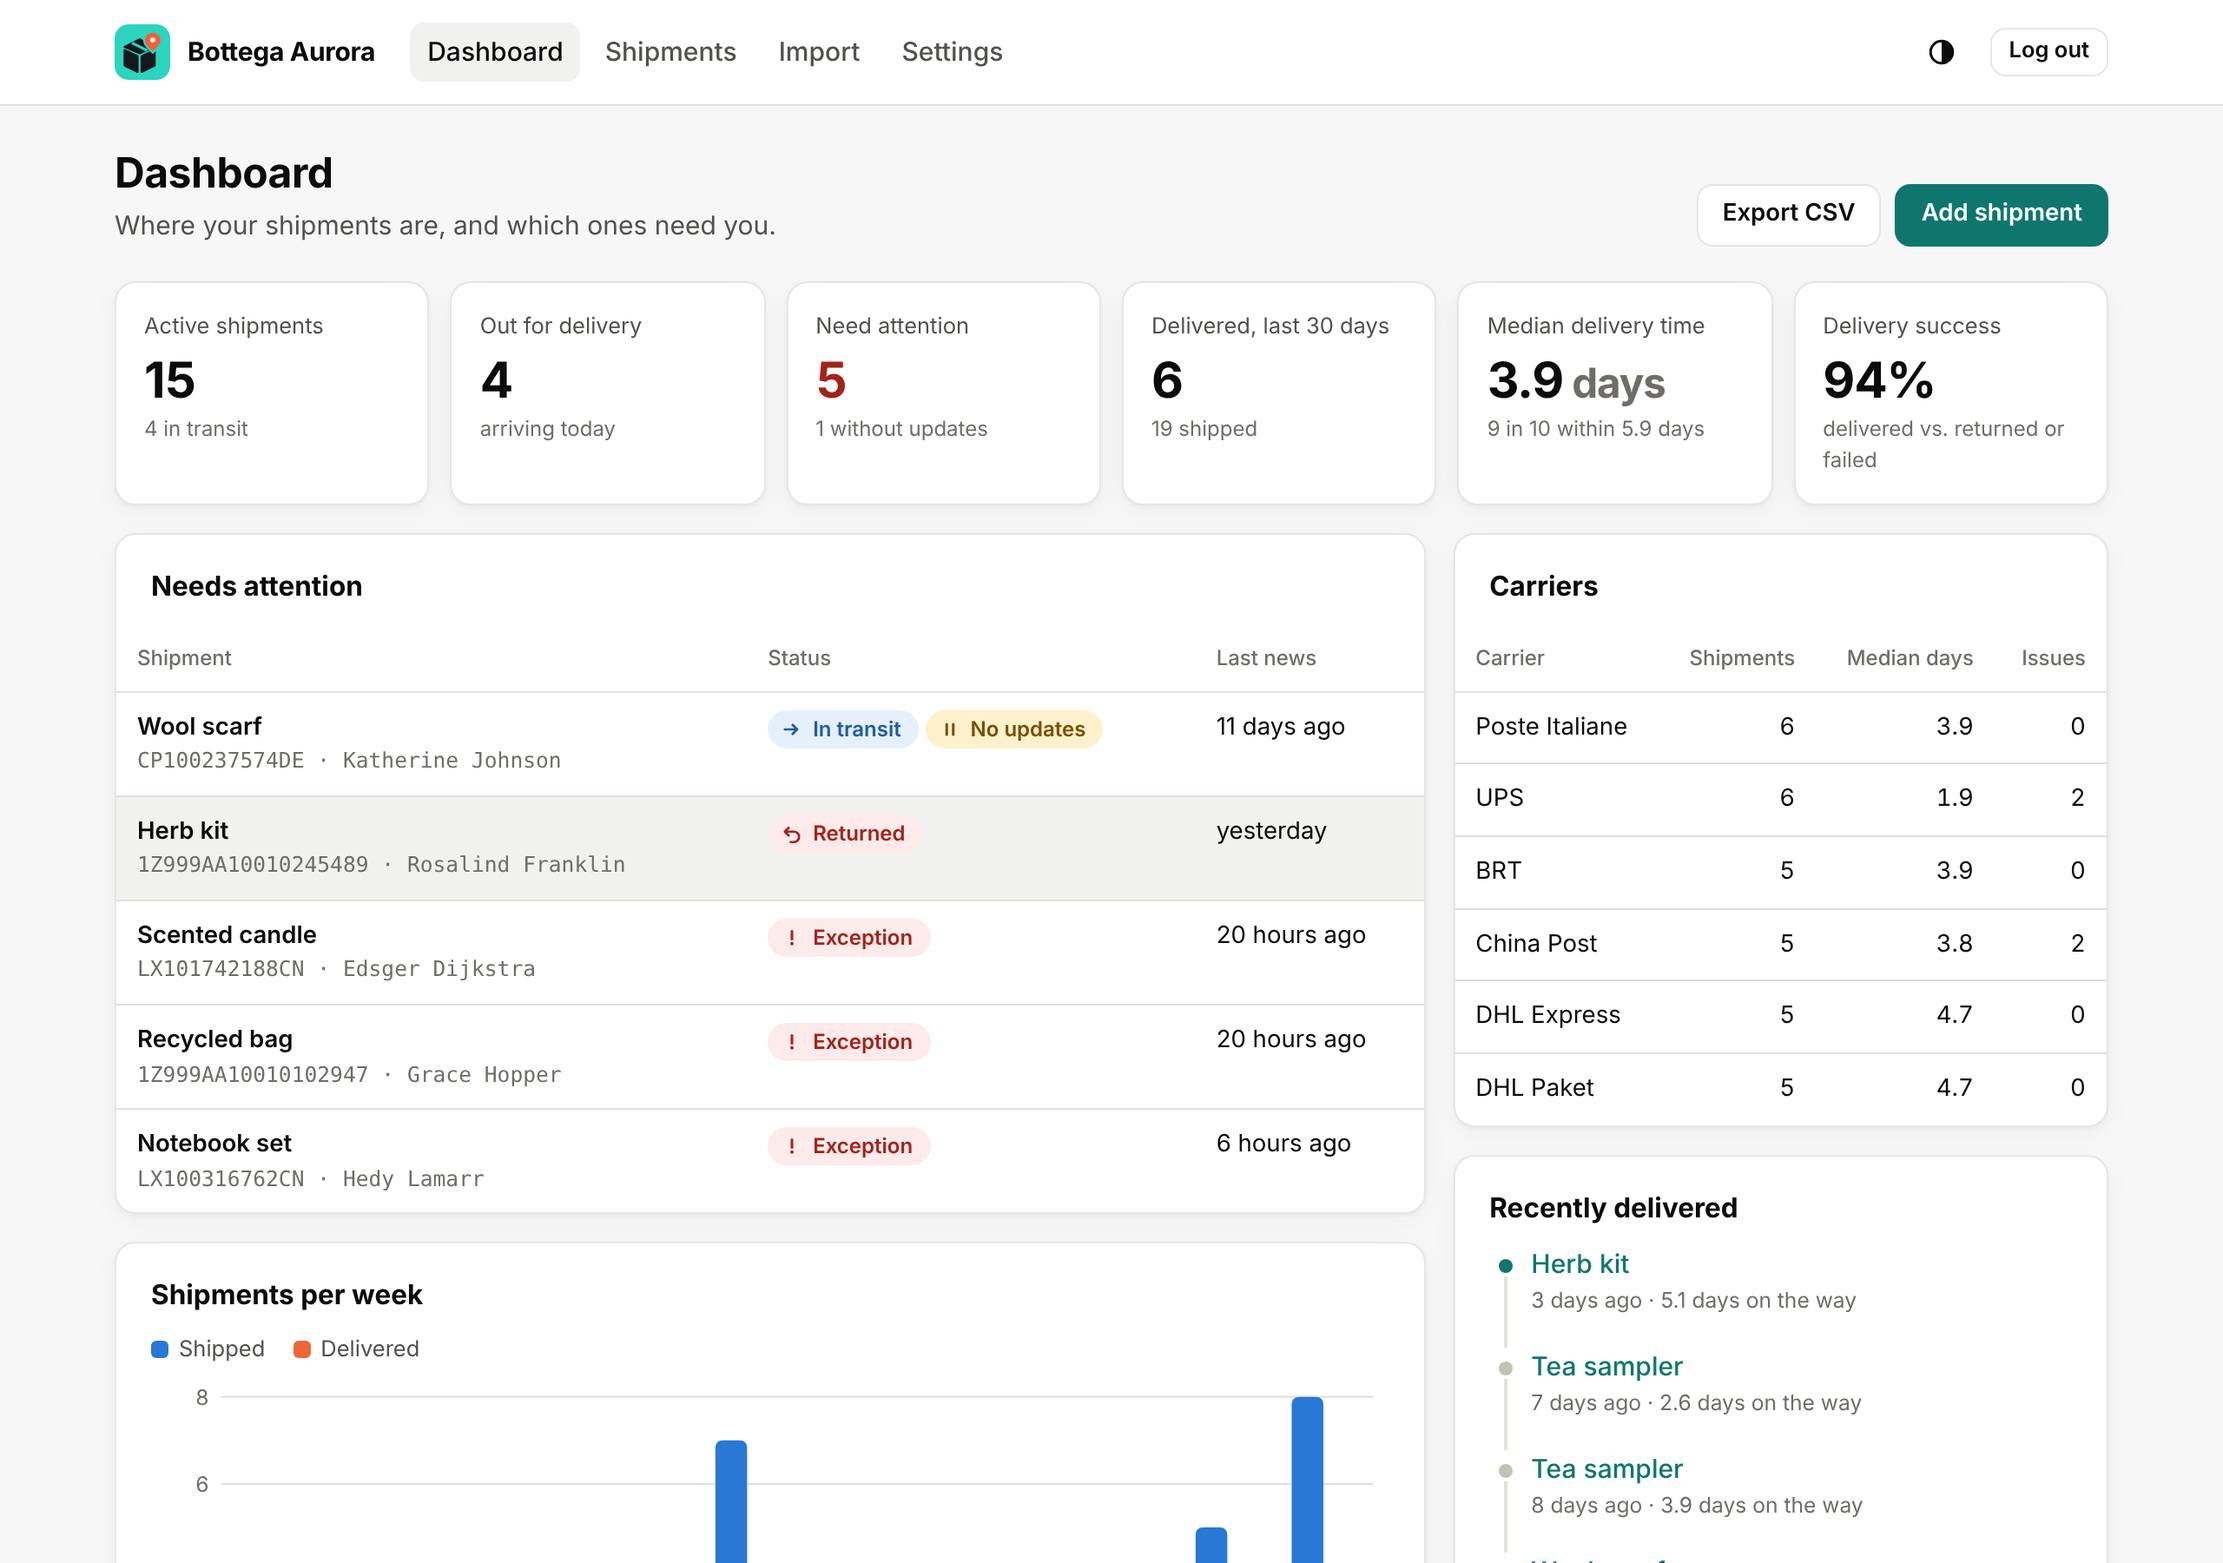
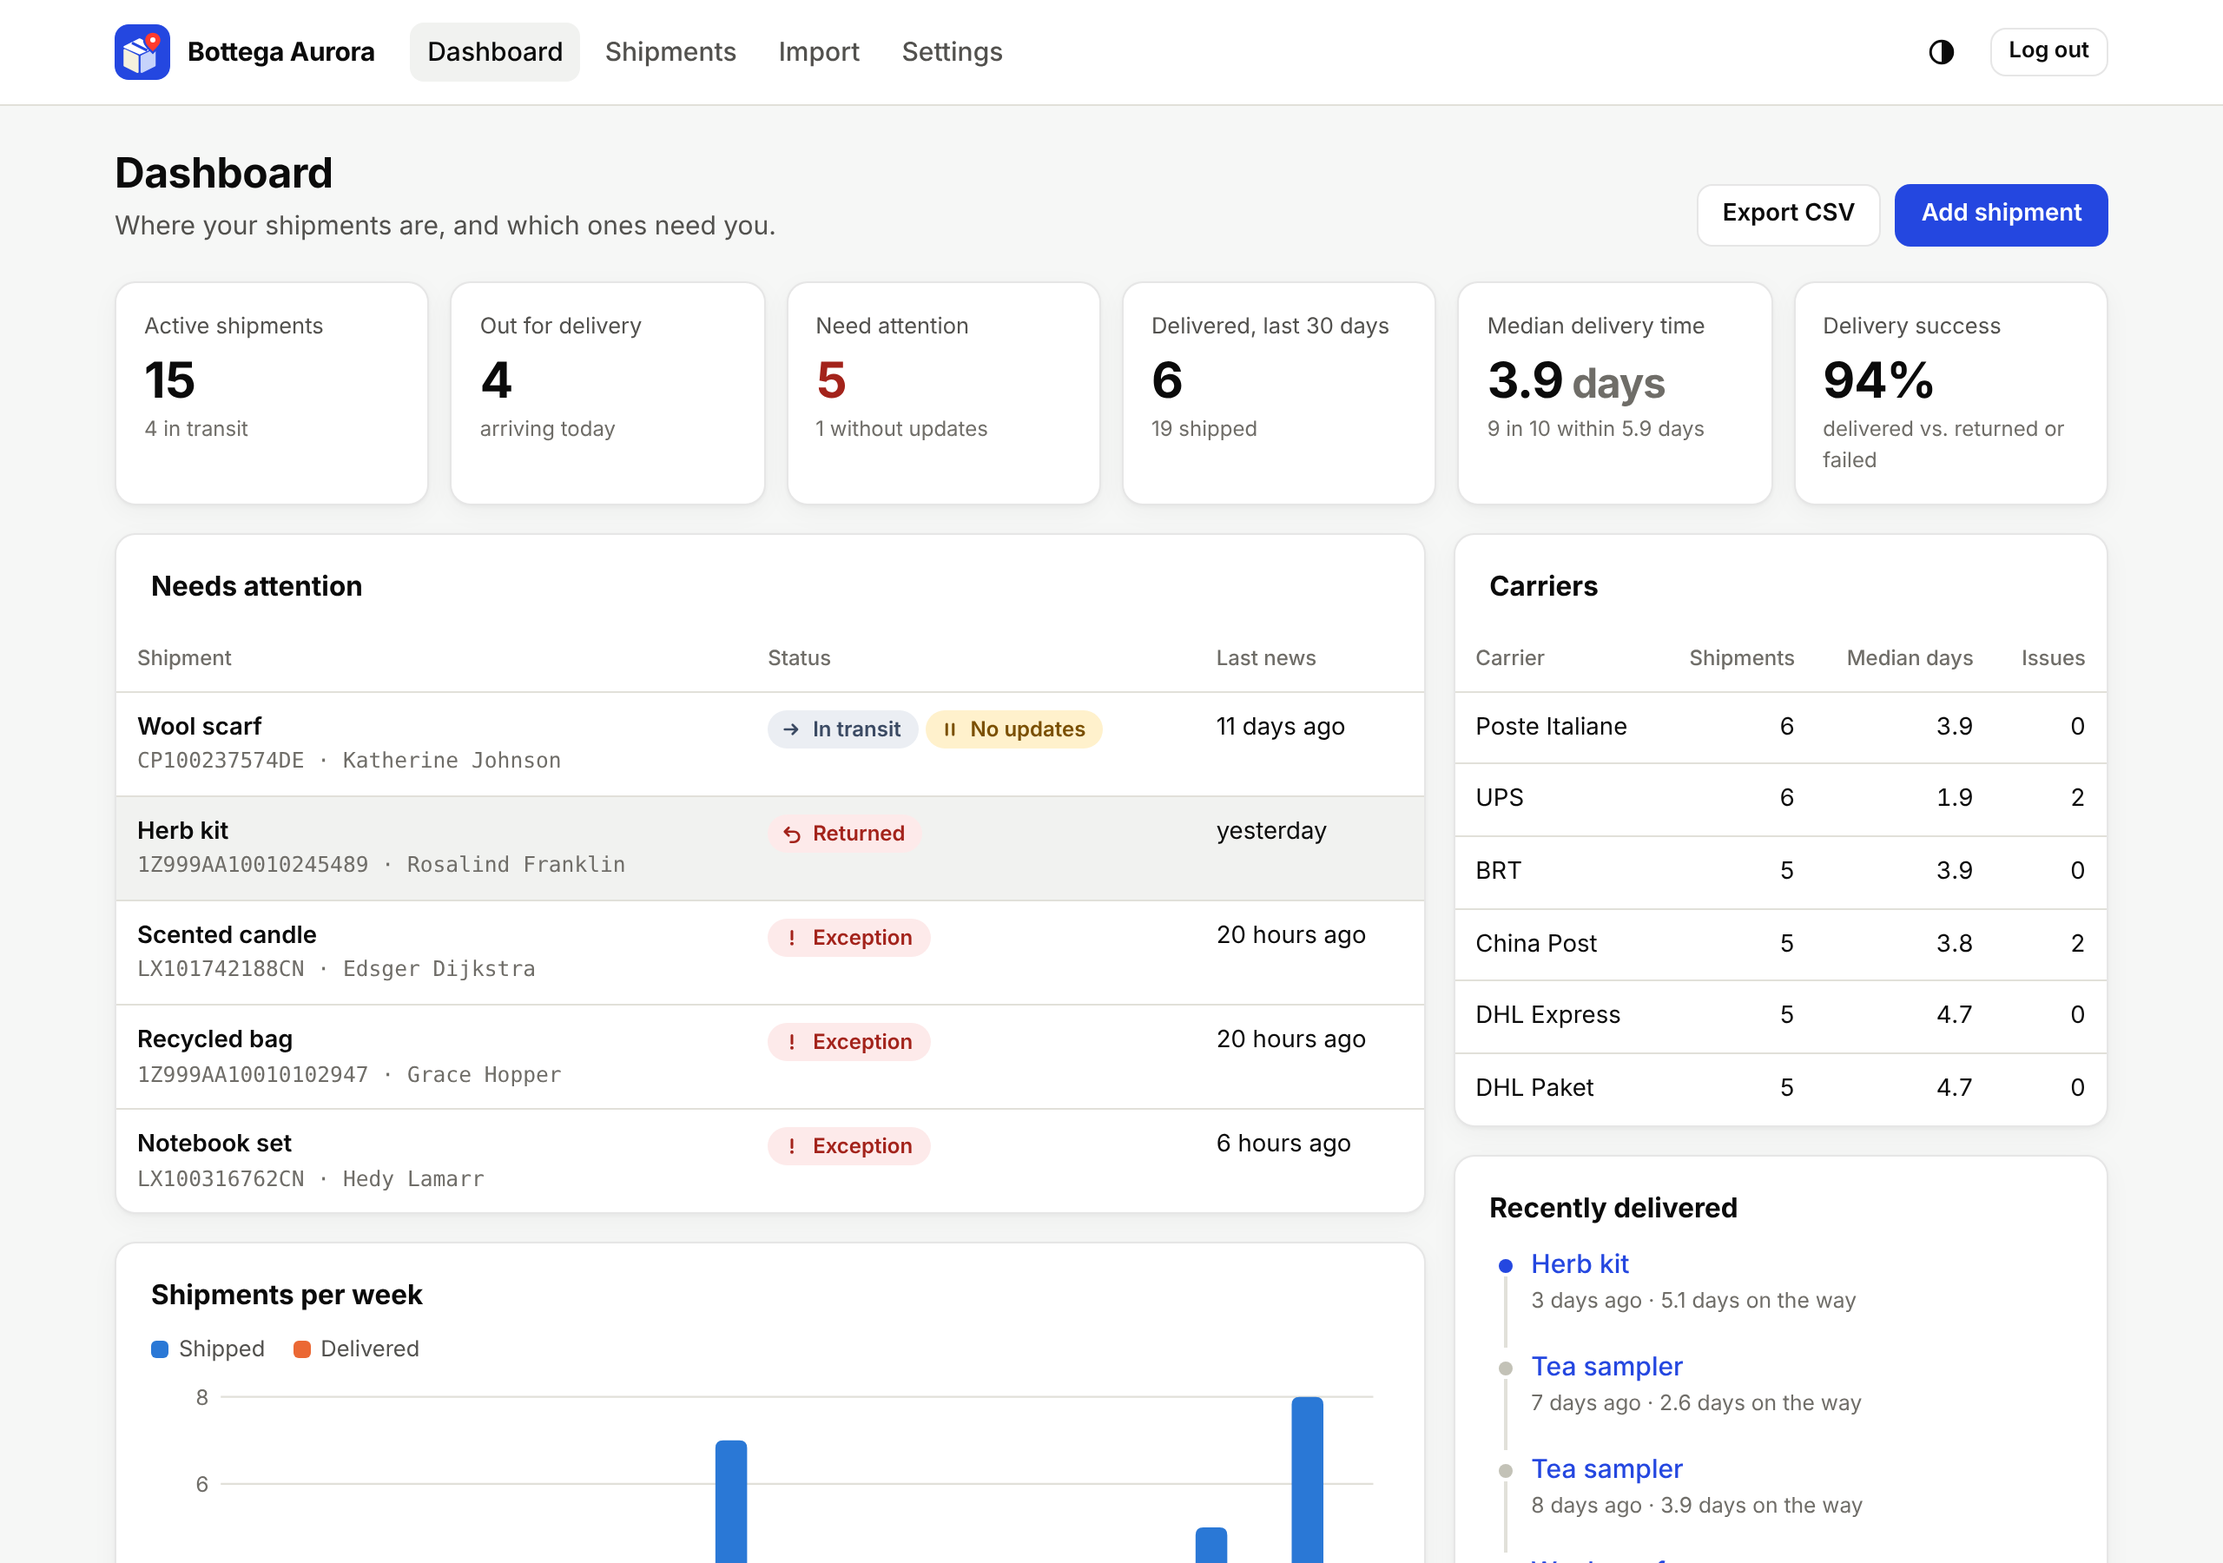
style(brand): bring back the project's blue #2447E0
The new brand had replaced the project's blue with teal. The logo set,
cover, social preview, Telegram images and the dashboard now use the
blue and the palette of the original artwork: cream and sky faces on
the parcel, navy ink, red pin.

- mark.svg is the blue parcel for light backgrounds; the new
  mark-light.svg is the light one for blue and dark backgrounds.
- Dashboard tokens are blue in light and dark mode. The out-for-delivery
  pill takes the brand blue and in-transit becomes slate, so the two
  stay distinct.
- The dark-mode primary button had white text on light teal; it now
  has white text on the blue, with its own fill token.

Claude-Session: https://claude.ai/code/session_01X2UeaJnVpezjJwntai5mRo

diff --git a/src/parcel_tracker/web/static/app.css b/src/parcel_tracker/web/static/app.css
@@ -1,10 +1,14 @@
 /* parcel-tracker-bot dashboard — no framework, no external requests. */
 :root {
   color-scheme: light;
-  --brand: #2dd4bf;
-  --brand-ink: #0f766e;
-  --brand-ink-hover: #0b5f59;
-  --ink: #14181f;
+  /* The project's blue (#2447E0) and its original artwork's palette. */
+  --brand: #2447e0;
+  --brand-ink: #2447e0;
+  --brand-ink-hover: #1a38b8;
+  --brand-fill: #2447e0;
+  --brand-fill-hover: #1a38b8;
+  --brand-tint: #dde5fd;
+  --ink: #101632;
   --page: #f6f7f6;
   --surface: #ffffff;
   --surface-2: #f1f2f0;
@@ -14,13 +18,13 @@
   --line: #e1e0d9;
   --axis: #c3c2b7;
   --ring: rgba(11, 11, 11, 0.1);
-  --focus: #0f766e;
+  --focus: #2447e0;
   --danger: #b42318;
   --s1: #2a78d6;
   --s2: #eb6834;
   --pill-pending-bg: #efefec; --pill-pending: #52514e;
-  --pill-transit-bg: #e6f0fc; --pill-transit: #1c5cab;
-  --pill-out-bg: #d9f6f0; --pill-out: #0b5f59;
+  --pill-transit-bg: #ebeef3; --pill-transit: #3b4a63;
+  --pill-out-bg: #dde5fd; --pill-out: #1a38b8;
   --pill-attention-bg: #fdeaea; --pill-attention: #a3231b;
   --pill-delivered-bg: #e2f4e2; --pill-delivered: #0b5e0b;
   --pill-stalled-bg: #fff1cc; --pill-stalled: #7a4f00;
@@ -33,16 +37,17 @@
 @media (prefers-color-scheme: dark) {
   :root:not([data-theme="light"]) {
     color-scheme: dark;
-    --brand-ink: #5eead4; --brand-ink-hover: #99f6e4;
-    --ink: #e8f6f3;
+    --brand-ink: #8ea4ff; --brand-ink-hover: #b9c7ff;
+    --brand-fill: #2447e0; --brand-fill-hover: #3a5bf0; --brand-tint: #1a2350;
+    --ink: #e8ecfb;
     --page: #0d0d0d; --surface: #1a1a19; --surface-2: #232321;
     --text: #ffffff; --text-2: #c3c2b7; --muted: #9a988f;
     --line: #2c2c2a; --axis: #383835; --ring: rgba(255, 255, 255, 0.1);
-    --focus: #5eead4; --danger: #ff8a80;
+    --focus: #8ea4ff; --danger: #ff8a80;
     --s1: #3987e5; --s2: #d95926;
     --pill-pending-bg: #2a2a28; --pill-pending: #c3c2b7;
-    --pill-transit-bg: #13283f; --pill-transit: #9ec5f4;
-    --pill-out-bg: #0f2e2b; --pill-out: #7ae8d6;
+    --pill-transit-bg: #222833; --pill-transit: #b4c0d4;
+    --pill-out-bg: #1a2350; --pill-out: #b9c7ff;
     --pill-attention-bg: #3a1615; --pill-attention: #ffb4ab;
     --pill-delivered-bg: #132c13; --pill-delivered: #8fdc8f;
     --pill-stalled-bg: #3a2c08; --pill-stalled: #ffd27a;
@@ -51,16 +56,17 @@
 }
 :root[data-theme="dark"] {
   color-scheme: dark;
-  --brand-ink: #5eead4; --brand-ink-hover: #99f6e4;
-  --ink: #e8f6f3;
+  --brand-ink: #8ea4ff; --brand-ink-hover: #b9c7ff;
+  --brand-fill: #2447e0; --brand-fill-hover: #3a5bf0; --brand-tint: #1a2350;
+  --ink: #e8ecfb;
   --page: #0d0d0d; --surface: #1a1a19; --surface-2: #232321;
   --text: #ffffff; --text-2: #c3c2b7; --muted: #9a988f;
   --line: #2c2c2a; --axis: #383835; --ring: rgba(255, 255, 255, 0.1);
-  --focus: #5eead4; --danger: #ff8a80;
+  --focus: #8ea4ff; --danger: #ff8a80;
   --s1: #3987e5; --s2: #d95926;
   --pill-pending-bg: #2a2a28; --pill-pending: #c3c2b7;
-  --pill-transit-bg: #13283f; --pill-transit: #9ec5f4;
-  --pill-out-bg: #0f2e2b; --pill-out: #7ae8d6;
+  --pill-transit-bg: #222833; --pill-transit: #b4c0d4;
+  --pill-out-bg: #1a2350; --pill-out: #b9c7ff;
   --pill-attention-bg: #3a1615; --pill-attention: #ffb4ab;
   --pill-delivered-bg: #132c13; --pill-delivered: #8fdc8f;
   --pill-stalled-bg: #3a2c08; --pill-stalled: #ffd27a;
@@ -125,10 +131,8 @@ footer.site { color: var(--muted); font-size: 0.85rem; text-align: center; paddi
 /* buttons & forms */
 .btn { display: inline-flex; align-items: center; justify-content: center; gap: 6px; font: inherit; font-weight: 600; font-size: 0.92rem; padding: 8px 14px; border-radius: 9px; border: 1px solid var(--ring); background: var(--surface); color: var(--text); cursor: pointer; text-decoration: none; line-height: 1.3; white-space: nowrap; }
 .btn:hover { background: var(--surface-2); text-decoration: none; color: var(--text); }
-.btn-primary { background: var(--brand-ink); border-color: transparent; color: #fff; }
-.btn-primary:hover { background: var(--brand-ink-hover); color: #fff; }
-:root[data-theme="dark"] .btn-primary, :root[data-theme="dark"] .btn-primary:hover { color: #06201d; }
-@media (prefers-color-scheme: dark) { :root:not([data-theme="light"]) .btn-primary, :root:not([data-theme="light"]) .btn-primary:hover { color: #06201d; } }
+.btn-primary { background: var(--brand-fill); border-color: transparent; color: #fff; }
+.btn-primary:hover { background: var(--brand-fill-hover); color: #fff; }
 .btn-danger { color: var(--danger); }
 .btn-small { padding: 5px 10px; font-size: 0.85rem; }
 .btn-ghost { background: transparent; border-color: transparent; }
@@ -216,7 +220,7 @@ details.data-table summary { cursor: pointer; color: var(--text-2); font-size: 0
 .progress li.done::before { background: var(--brand-ink); border-color: var(--brand-ink); }
 .progress li.done::after { background: var(--brand-ink); }
 .progress li.current { font-weight: 650; color: var(--text); }
-.progress li.current::before { box-shadow: 0 0 0 4px var(--pill-out-bg); }
+.progress li.current::before { box-shadow: 0 0 0 4px var(--brand-tint); }
 .progress.problem li.current::before { background: var(--pill-attention); border-color: var(--pill-attention); box-shadow: 0 0 0 4px var(--pill-attention-bg); }
 
 /* facts & timeline */

diff --git a/scripts/make_docs_art.py b/scripts/make_docs_art.py
@@ -25,10 +25,21 @@ IMG = ROOT / "docs" / "img"
 LOGO = IMG / "logo"
 WEB_STATIC = ROOT / "src" / "parcel_tracker" / "web" / "static"
 
-TEAL = "#2DD4BF"
-INK = "#14181F"
-CORAL = "#FF5A36"
+# The project's blue and the palette of its original artwork.
+BLUE = "#2447E0"
+BLUE_DEEP = "#1A38B8"
+BLUE_SOFT = "#4A6BE7"
+NAVY = "#1E3A8F"
+INK = "#101632"
+CREAM = "#F6F1DD"
+SKY = "#C6D3FB"
+MIST = "#DDE5FD"
+RED = "#FF3B2E"
 WHITE = "#FFFFFF"
+
+# Face colours of the parcel (top, left, right).
+FACES_ON_BLUE = (WHITE, CREAM, SKY)  # light parcel on the blue tile and banners
+FACES_ON_LIGHT = (BLUE_SOFT, BLUE, NAVY)  # blue parcel for light backgrounds
 FONT = "'Inter', 'Inter Display', system-ui, -apple-system, 'Segoe UI', sans-serif"
 
 # --- the mark ------------------------------------------------------------------
@@ -49,9 +60,17 @@ _PIN = (
 _PIN_TRANSFORM = "translate(352 152)"
 
 
-def mark(*, ink: str = INK, pin: str = CORAL, dot: str = WHITE, uid: str = "m") -> str:
+def mark(
+    *,
+    faces: tuple[str, str, str] = FACES_ON_BLUE,
+    pin: str = RED,
+    dot: str = WHITE,
+    uid: str = "m",
+) -> str:
     """The mark on a transparent background (gaps are real holes, via masks)."""
-    faces = "".join(f'<path d="{d}"/>' for d in _FACES)
+    face_paths = "".join(
+        f'<path d="{d}" fill="{c}" stroke="{c}"/>' for d, c in zip(_FACES, faces, strict=True)
+    )
     pin_dot = f'<circle cx="0" cy="-8" r="24" fill="{dot}"/>' if dot != "hole" else ""
     pin_attr = f' mask="url(#{uid}-pin)"' if dot == "hole" else ""
     pin_mask = (
@@ -67,7 +86,7 @@ def mark(*, ink: str = INK, pin: str = CORAL, dot: str = WHITE, uid: str = "m") 
         f'<g transform="{_PIN_TRANSFORM}"><path d="{_PIN_RING}" fill="#000"/></g>'
         f"</mask>{pin_mask}</defs>"
         f'<g mask="url(#{uid}-box)"><g transform="{_BOX_TRANSFORM}">'
-        f'<g fill="{ink}" stroke="{ink}" stroke-width="18" stroke-linejoin="round">{faces}</g>'
+        f'<g stroke-width="18" stroke-linejoin="round">{face_paths}</g>'
         "</g></g>"
         f'<g transform="{_PIN_TRANSFORM}"><path d="{_PIN}" fill="{pin}"{pin_attr}/>{pin_dot}</g>'
     )
@@ -81,12 +100,12 @@ def svg(body: str, *, size: int = 512, title: str = "parcel-tracker-bot") -> str
 
 
 def icon_svg(*, radius: int = 112, scale: float = 1.0) -> str:
-    """App icon: the mark on a teal rounded square."""
+    """App icon: the light mark on a blue rounded square."""
     inner = mark(uid="i")
     if scale != 1.0:
         offset = 256 * (1 - scale)
         inner = f'<g transform="translate({offset:.1f} {offset:.1f}) scale({scale})">{inner}</g>'
-    return svg(f'<rect width="512" height="512" rx="{radius}" fill="{TEAL}"/>{inner}')
+    return svg(f'<rect width="512" height="512" rx="{radius}" fill="{BLUE}"/>{inner}')
 
 
 # --- page layouts ------------------------------------------------------------------
@@ -102,12 +121,13 @@ _BUBBLE = """
 
 _CSS = f"""
 * {{ box-sizing: border-box; margin: 0; padding: 0; }}
-body {{ font-family: {FONT}; color: {INK}; background: {TEAL}; -webkit-font-smoothing: antialiased; }}
+body {{ font-family: {FONT}; color: {WHITE}; background: {BLUE}; -webkit-font-smoothing: antialiased; }}
 .frame {{ position: relative; overflow: hidden; display: flex; align-items: center; }}
 .title {{ font-weight: 800; letter-spacing: -0.035em; line-height: 1; }}
 .tagline {{ font-weight: 500; letter-spacing: -0.01em; }}
-.small {{ font-weight: 500; opacity: 0.78; }}
-.bubble {{ background: #fff; border-radius: 28px; border-bottom-left-radius: 8px; box-shadow: 10px 12px 0 rgba(20,24,31,0.14);
+.tagline {{ color: {MIST}; }}
+.small {{ font-weight: 500; color: {SKY}; }}
+.bubble {{ background: #fff; color: {INK}; border-radius: 28px; border-bottom-left-radius: 8px; box-shadow: 10px 12px 0 {BLUE_DEEP};
   padding: 26px 30px 22px; width: 420px; }}
 .b-title {{ font-weight: 700; font-size: 26px; display: flex; align-items: center; gap: 10px; }}
 .b-name {{ font-weight: 650; font-size: 22px; margin-top: 16px; }}
@@ -117,9 +137,9 @@ body {{ font-family: {FONT}; color: {INK}; background: {TEAL}; -webkit-font-smoo
 .steps li::before {{ content: ""; position: absolute; left: 50%; top: 0; width: 16px; height: 16px; margin-left: -8px; border-radius: 50%;
   background: #fff; border: 3px solid #c3c2b7; z-index: 1; }}
 .steps li + li::after {{ content: ""; position: absolute; top: 6px; right: 50%; width: 100%; height: 4px; background: #c3c2b7; }}
-.steps li.on::before {{ background: #0F766E; border-color: #0F766E; }}
-.steps li.on::after {{ background: #0F766E; }}
-.steps li.now::before {{ box-shadow: 0 0 0 6px rgba(45,212,191,0.35); }}
+.steps li.on::before {{ background: {BLUE}; border-color: {BLUE}; }}
+.steps li.on::after {{ background: {BLUE}; }}
+.steps li.now::before {{ box-shadow: 0 0 0 6px {MIST}; }}
 .b-row {{ display: flex; justify-content: space-between; font-size: 18px; color: #52514e; }}
 .time {{ color: #898781; }}
 """
@@ -154,7 +174,7 @@ def social_html() -> str:
 .tagline {{ font-size: 30px; margin-top: 18px; }}
 .small {{ font-size: 21px; margin-top: 26px; line-height: 1.45; }}
 .chips {{ display: flex; flex-wrap: wrap; gap: 10px; margin-top: 26px; }}
-.chips span {{ background: rgba(20,24,31,0.88); color: #fff; border-radius: 999px; padding: 7px 14px; font-size: 16px; font-weight: 600; white-space: nowrap; }}
+.chips span {{ background: {BLUE_DEEP}; color: #fff; border-radius: 999px; padding: 7px 14px; font-size: 16px; font-weight: 600; white-space: nowrap; }}
 .bubble {{ width: 380px; flex: none; }}
 </style></head><body><div class="frame">
 <div class="left"><svg class="logo" viewBox="0 0 512 512">{mark(uid="s")}</svg>
@@ -206,9 +226,10 @@ def write_svgs() -> None:
     LOGO.mkdir(parents=True, exist_ok=True)
     files = {
         LOGO / "icon.svg": icon_svg(),
-        LOGO / "mark.svg": svg(mark(uid="k")),
-        LOGO / "mono-black.svg": svg(mark(ink="#000", pin="#000", dot="hole", uid="b")),
-        LOGO / "mono-white.svg": svg(mark(ink="#fff", pin="#fff", dot="hole", uid="w")),
+        LOGO / "mark.svg": svg(mark(faces=FACES_ON_LIGHT, uid="k")),
+        LOGO / "mark-light.svg": svg(mark(uid="l")),
+        LOGO / "mono-black.svg": svg(mark(faces=("#000",) * 3, pin="#000", dot="hole", uid="b")),
+        LOGO / "mono-white.svg": svg(mark(faces=("#fff",) * 3, pin="#fff", dot="hole", uid="w")),
         LOGO / "avatar.svg": icon_svg(radius=0, scale=0.86),
         WEB_STATIC / "logo.svg": icon_svg(),
         WEB_STATIC / "favicon.svg": icon_svg(radius=128),

diff --git a/CHANGELOG.md b/CHANGELOG.md
@@ -44,8 +44,10 @@ long list of correctness, security and documentation fixes from a full audit.
   way everywhere.
 - Prometheus gauges `parceltracker_active_parcels` (now populated) and
   `parceltracker_stalled_parcels`; Grafana dashboard in `docs/grafana/`.
-- New brand: logo set, cover, social preview, Telegram avatar and description
-  image, rendered by `scripts/make_docs_art.py`.
+- New brand in the project's blue (`#2447E0`): logo set for blue, light and
+  dark backgrounds, cover, social preview, Telegram avatar and description
+  image, rendered by `scripts/make_docs_art.py`. The dashboard uses the same
+  blue in light and dark mode.
 - `scripts/demo_web.py` (dashboard on demo data) and `scripts/i18n.py`
   (catalog maintenance).
 - `/forgetme` self-service erasure and automatic data retention
